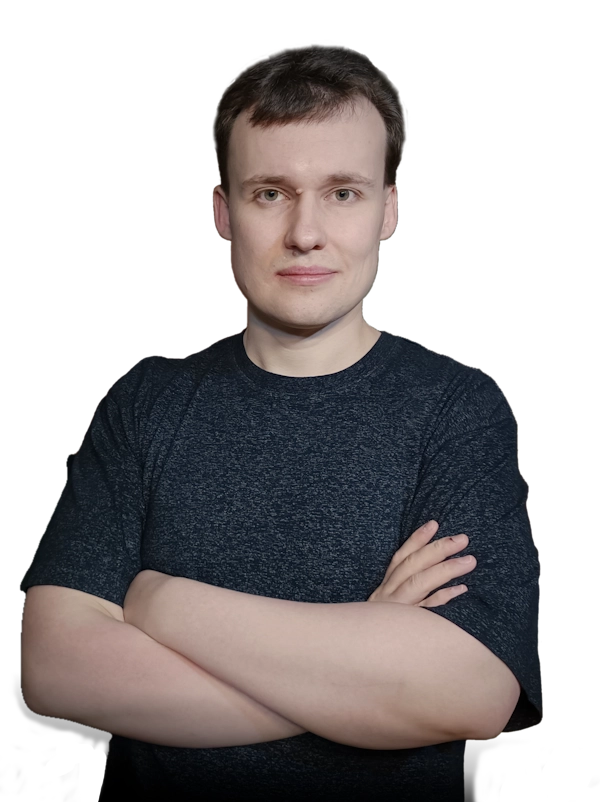
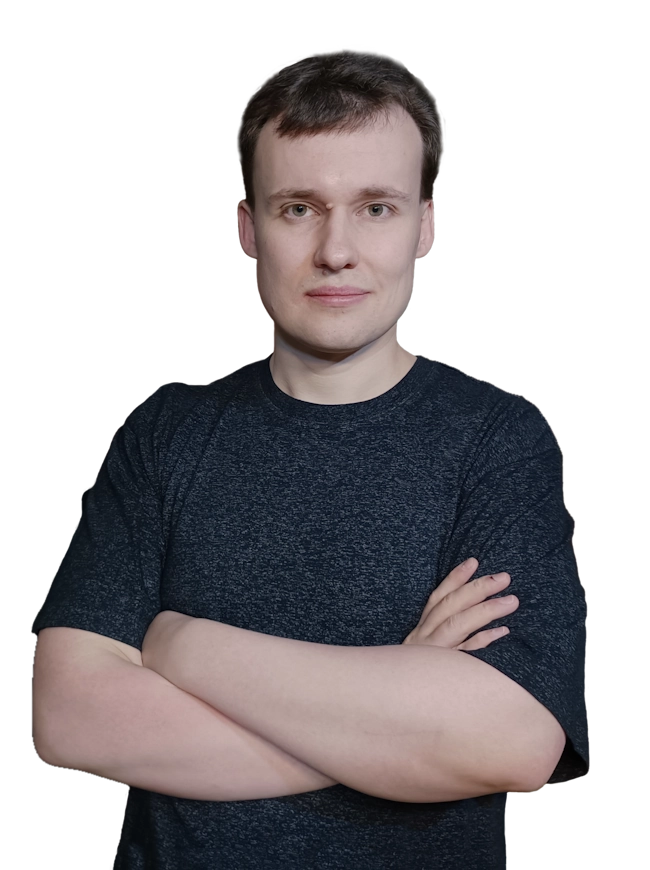
updated landing owner photo

diff --git a/components/site/LandingPage/HeroAlt.tsx b/components/site/LandingPage/HeroAlt.tsx
@@ -283,33 +283,61 @@ export default function Hero({ article }: Props) {
           </Stack>
           <Box
             sx={{
+              zIndex: -1,
               gridRow: { xs: `span 1`, md: `span 2` },
               gridColumn: { xs: `1`, md: `2` },
               textAlign: "center",
-              display: { xs: "inherit", md: "flex", lg: "inherit" },
-              alignItems: { xs: "inherit", md: "flex-end", lg: "inherit" },
+              display: "flex",
+              flexDirection: "column",
+              alignItems: "flex-end",
               p: {
                 xs: 0,
-                md: "0 0 40px 30px",
-                lg: "30px 30px 0px 50px",
-                xl: "0 30px 0px 70px",
+                md: "0 0 0 30px",
+                lg: "30px 30px 0 50px",
+                xl: "0 30px 0 90px",
               },
-              "& img": {
+              "& a": {
+                display: "block",
+                position: "relative",
                 width: "100%",
-                height: "auto",
                 maxWidth: "96vw",
+                overflow: "visible",
+                "& img": {
+                  width: "100%",
+                  height: "auto",
+                  maxWidth: "100%",
+                  maxHeight: "100%",
+                  objectFit: "contain",
+                },
               },
             }}
           >
             <Link itemProp="image" href={image.canonicalUrl} target="_blank">
               <Image
                 alt="Информационные системы и технологии"
-                width={600}
-                height={802}
-                quality={75}
+                width={650}
+                height={870}
+                quality={70}
                 src="/images/computer_master_landing_balashiha.webp"
                 title="Компьютерный мастер"
               />
+              <Box
+                sx={{
+                  position: "absolute",
+                  width: "100%",
+                  bottom: 0,
+                  filter: "blur(35px)",
+                  transform: "translate(0,50%)",
+                }}
+              >
+                <Box
+                  sx={{
+                    width: "100%",
+                    height: "140px",
+                    backgroundColor: "var(--landing-background-color)",
+                  }}
+                ></Box>
+              </Box>
             </Link>
           </Box>
         </Container>

diff --git a/components/site/LandingPage/LandingServices.tsx b/components/site/LandingPage/LandingServices.tsx
@@ -30,7 +30,7 @@ export default function LandingServices() {
           fontWeight: 500,
           textTransform: "uppercase",
           color: "white",
-          mb: { xs: "15px", lg: "65px" },
+          mb: { xs: "15px", sm: "35px", md: "40px" },
         }}
       >
         Услуги компьютерного мастера
@@ -40,8 +40,7 @@ export default function LandingServices() {
           header="Ремонт компьютеров"
           imageUrl="/images/services/services_001.jpg"
         >
-          Услуги по ремонту компьютерной техники в Балашихинском районе и
-          Москве
+          Услуги по ремонту компьютерной техники в Балашихинском районе и Москве
         </LandingCard>
         <LandingCard
           header="Настройка Интернета"

diff --git a/pages/index.tsx b/pages/index.tsx
@@ -21,6 +21,7 @@ import { getCanonicalUrl, makeImageType } from "@framework/utils/normalize";
 import { BottomContactsWithMap } from "@components/site/LandingPage/BottomContactsWithMap";
 import { useThemePalette } from "@components/ui";
 import getDarkTheme from "@components/ui/theme/dark-theme";
+import LandingPhotoTicker from "@components/site/LandingPage/LandingPhotoTicker";
 
 export default function Home(
   props: InferGetStaticPropsType<typeof getStaticProps>
@@ -46,6 +47,7 @@ export default function Home(
           <LandingClientSteps />
           <LandingAgeTasks />
           <LandingWizard />
+          <LandingPhotoTicker />
           <CardGridContainer />
           <LandingReasons />
           <LandingPricesCards />

diff --git a/components/site/LandingPage/LandingPhotoTicker.tsx b/components/site/LandingPage/LandingPhotoTicker.tsx
@@ -1,0 +1,11 @@
+import { Container, Grid, Card, Paper, Button, Stack } from "@mui/material";
+import Image from "next/image";
+import Box from "@mui/material/Box";
+import Typography from "@mui/material/Typography";
+import React, { useEffect, useMemo, useRef } from "react";
+import Link from "next/link";
+import { grey } from "@mui/material/colors";
+interface Props {}
+export default function LandingPhotoTicker({}: Props) {
+  return <></>;
+}

diff --git a/framework/graphql/site/use-count-views.tsx b/framework/graphql/site/use-count-views.tsx
@@ -23,7 +23,7 @@ export const handler: API.RestApi.RestApiHook<CountViewsHook> = {
         variables,
       });
       if (data.articleId.toString() !== input.articleId.toString()) {
-        throw new Error(
+        console.error(
           "Bad use-count-views api request result: no correct article id."
         );
       }

diff --git a/styles/variables/base.css b/styles/variables/base.css
@@ -1,5 +1,6 @@
 :root {
   --landing-font-family: "Noto Sans", Arial, sans-serif;
+  --landing-background-color: #010101;
   --animate-duration: 1s;
   --animate-delay: 1s;
   --animate-repeat: 1;
